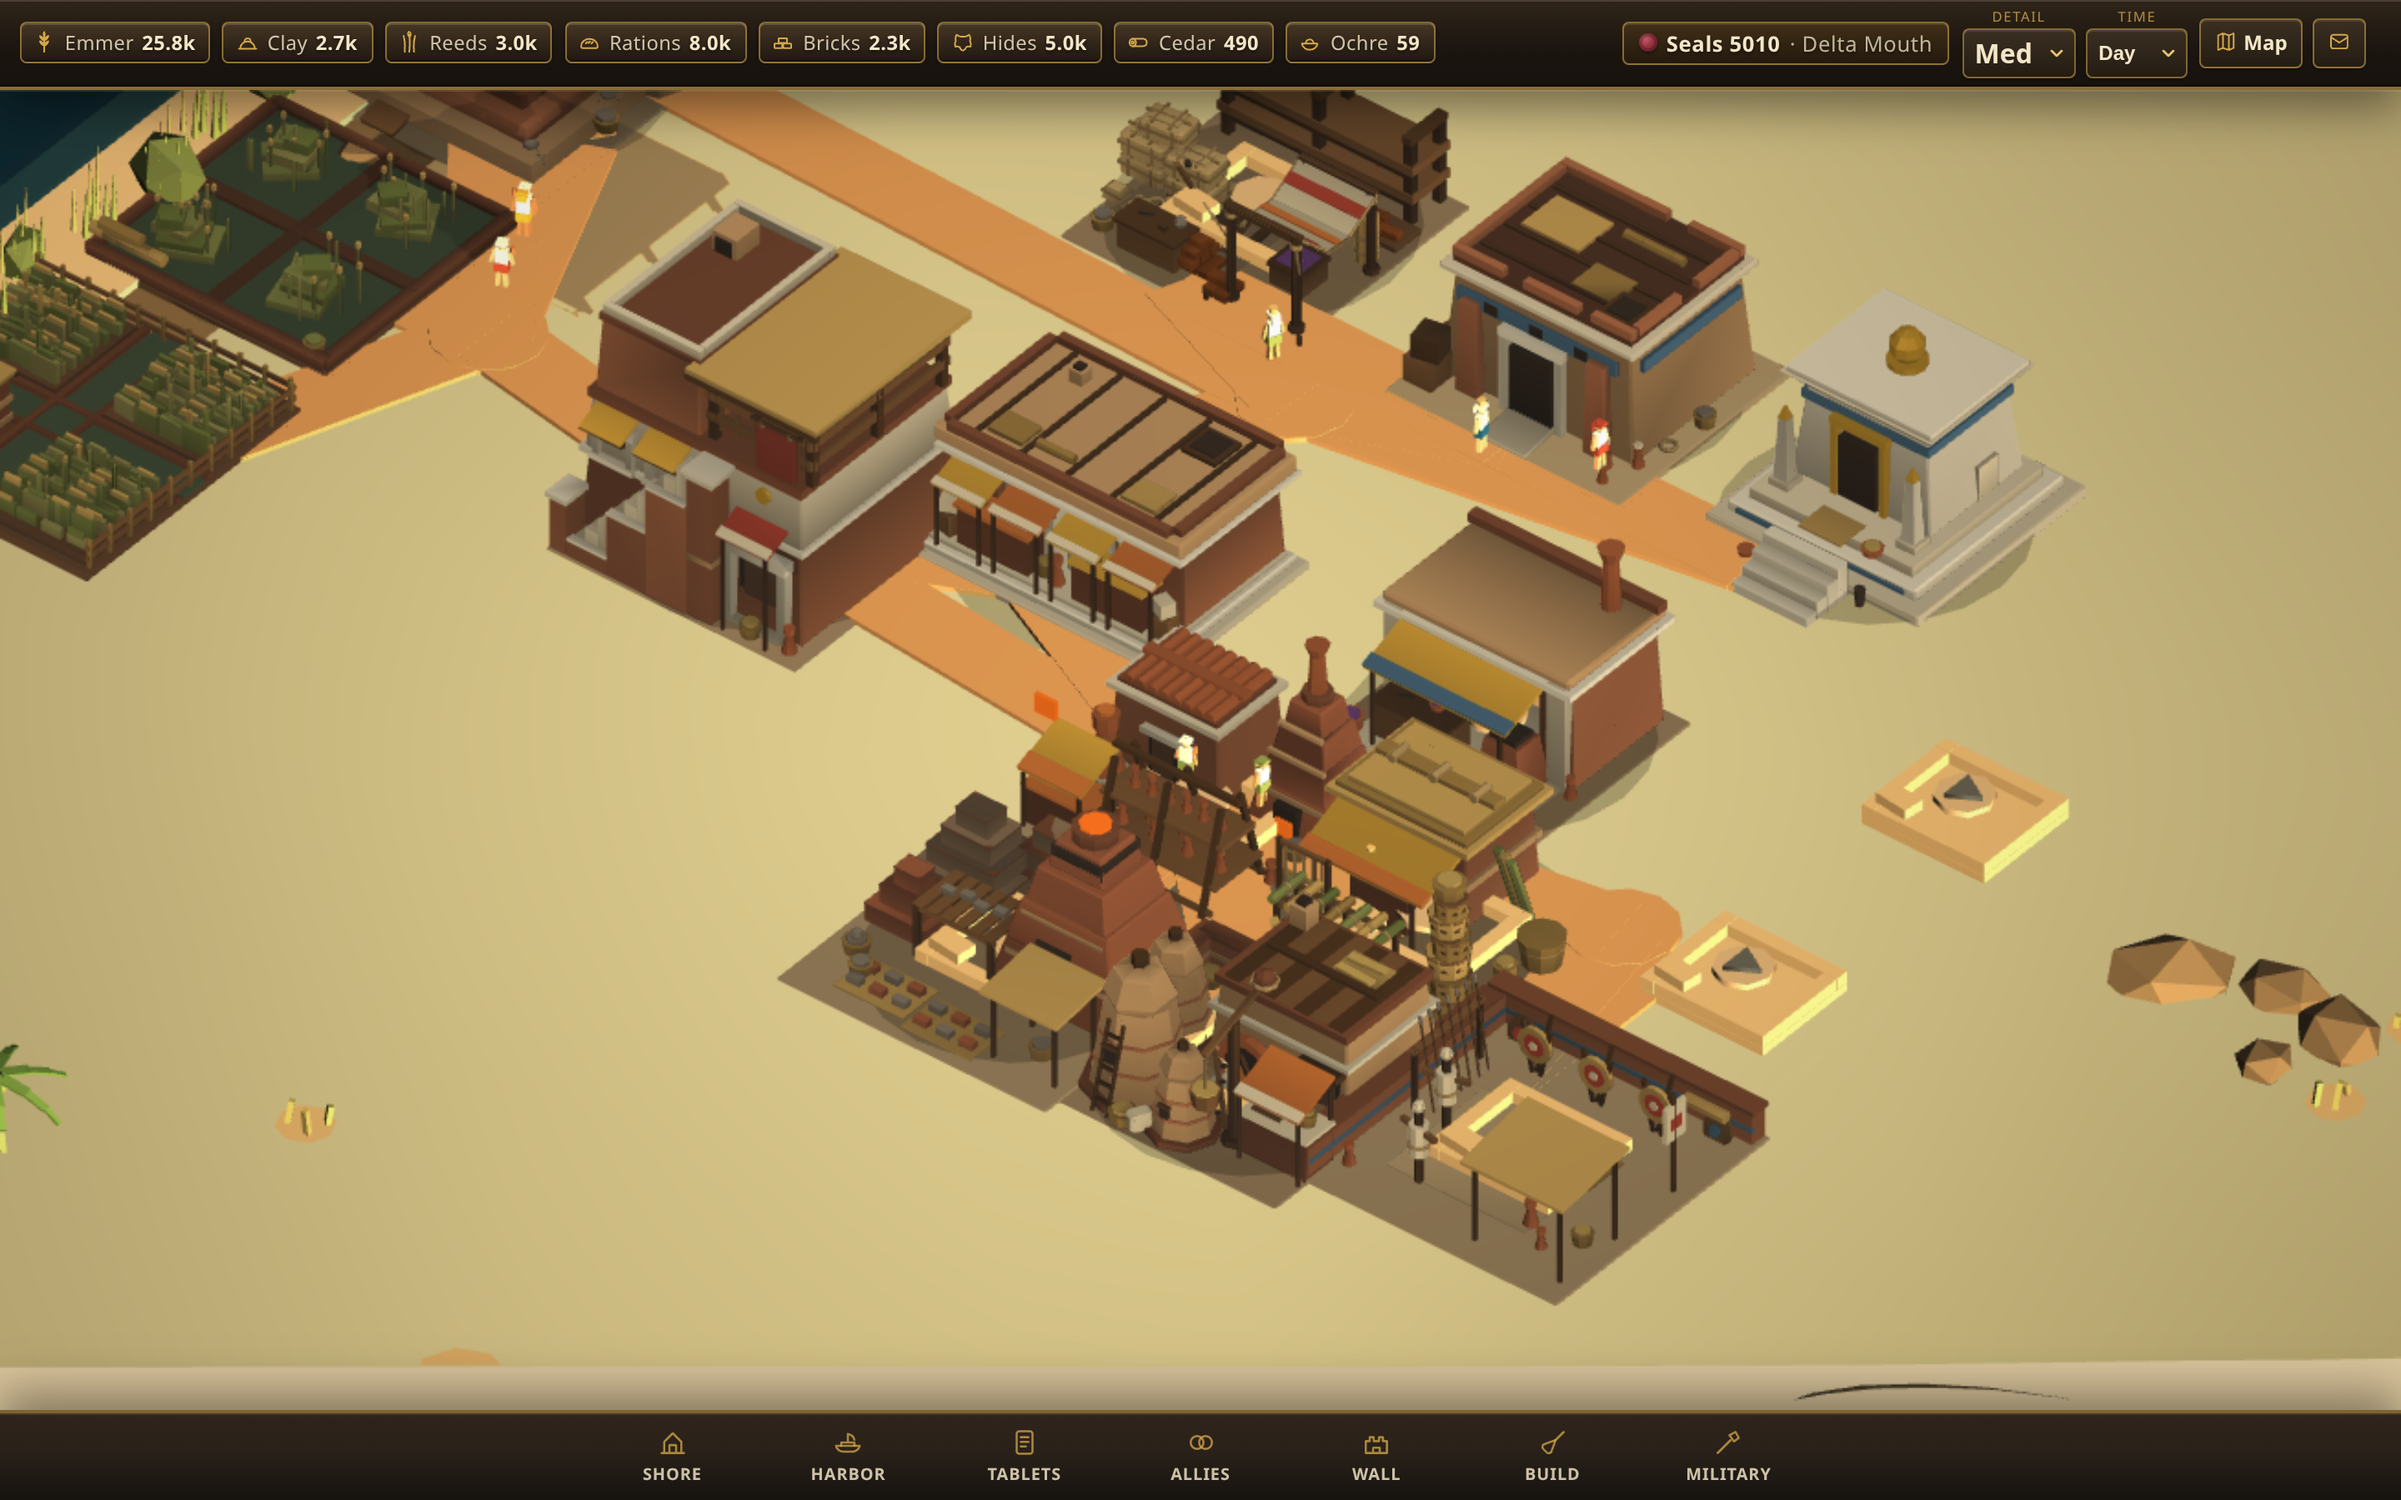
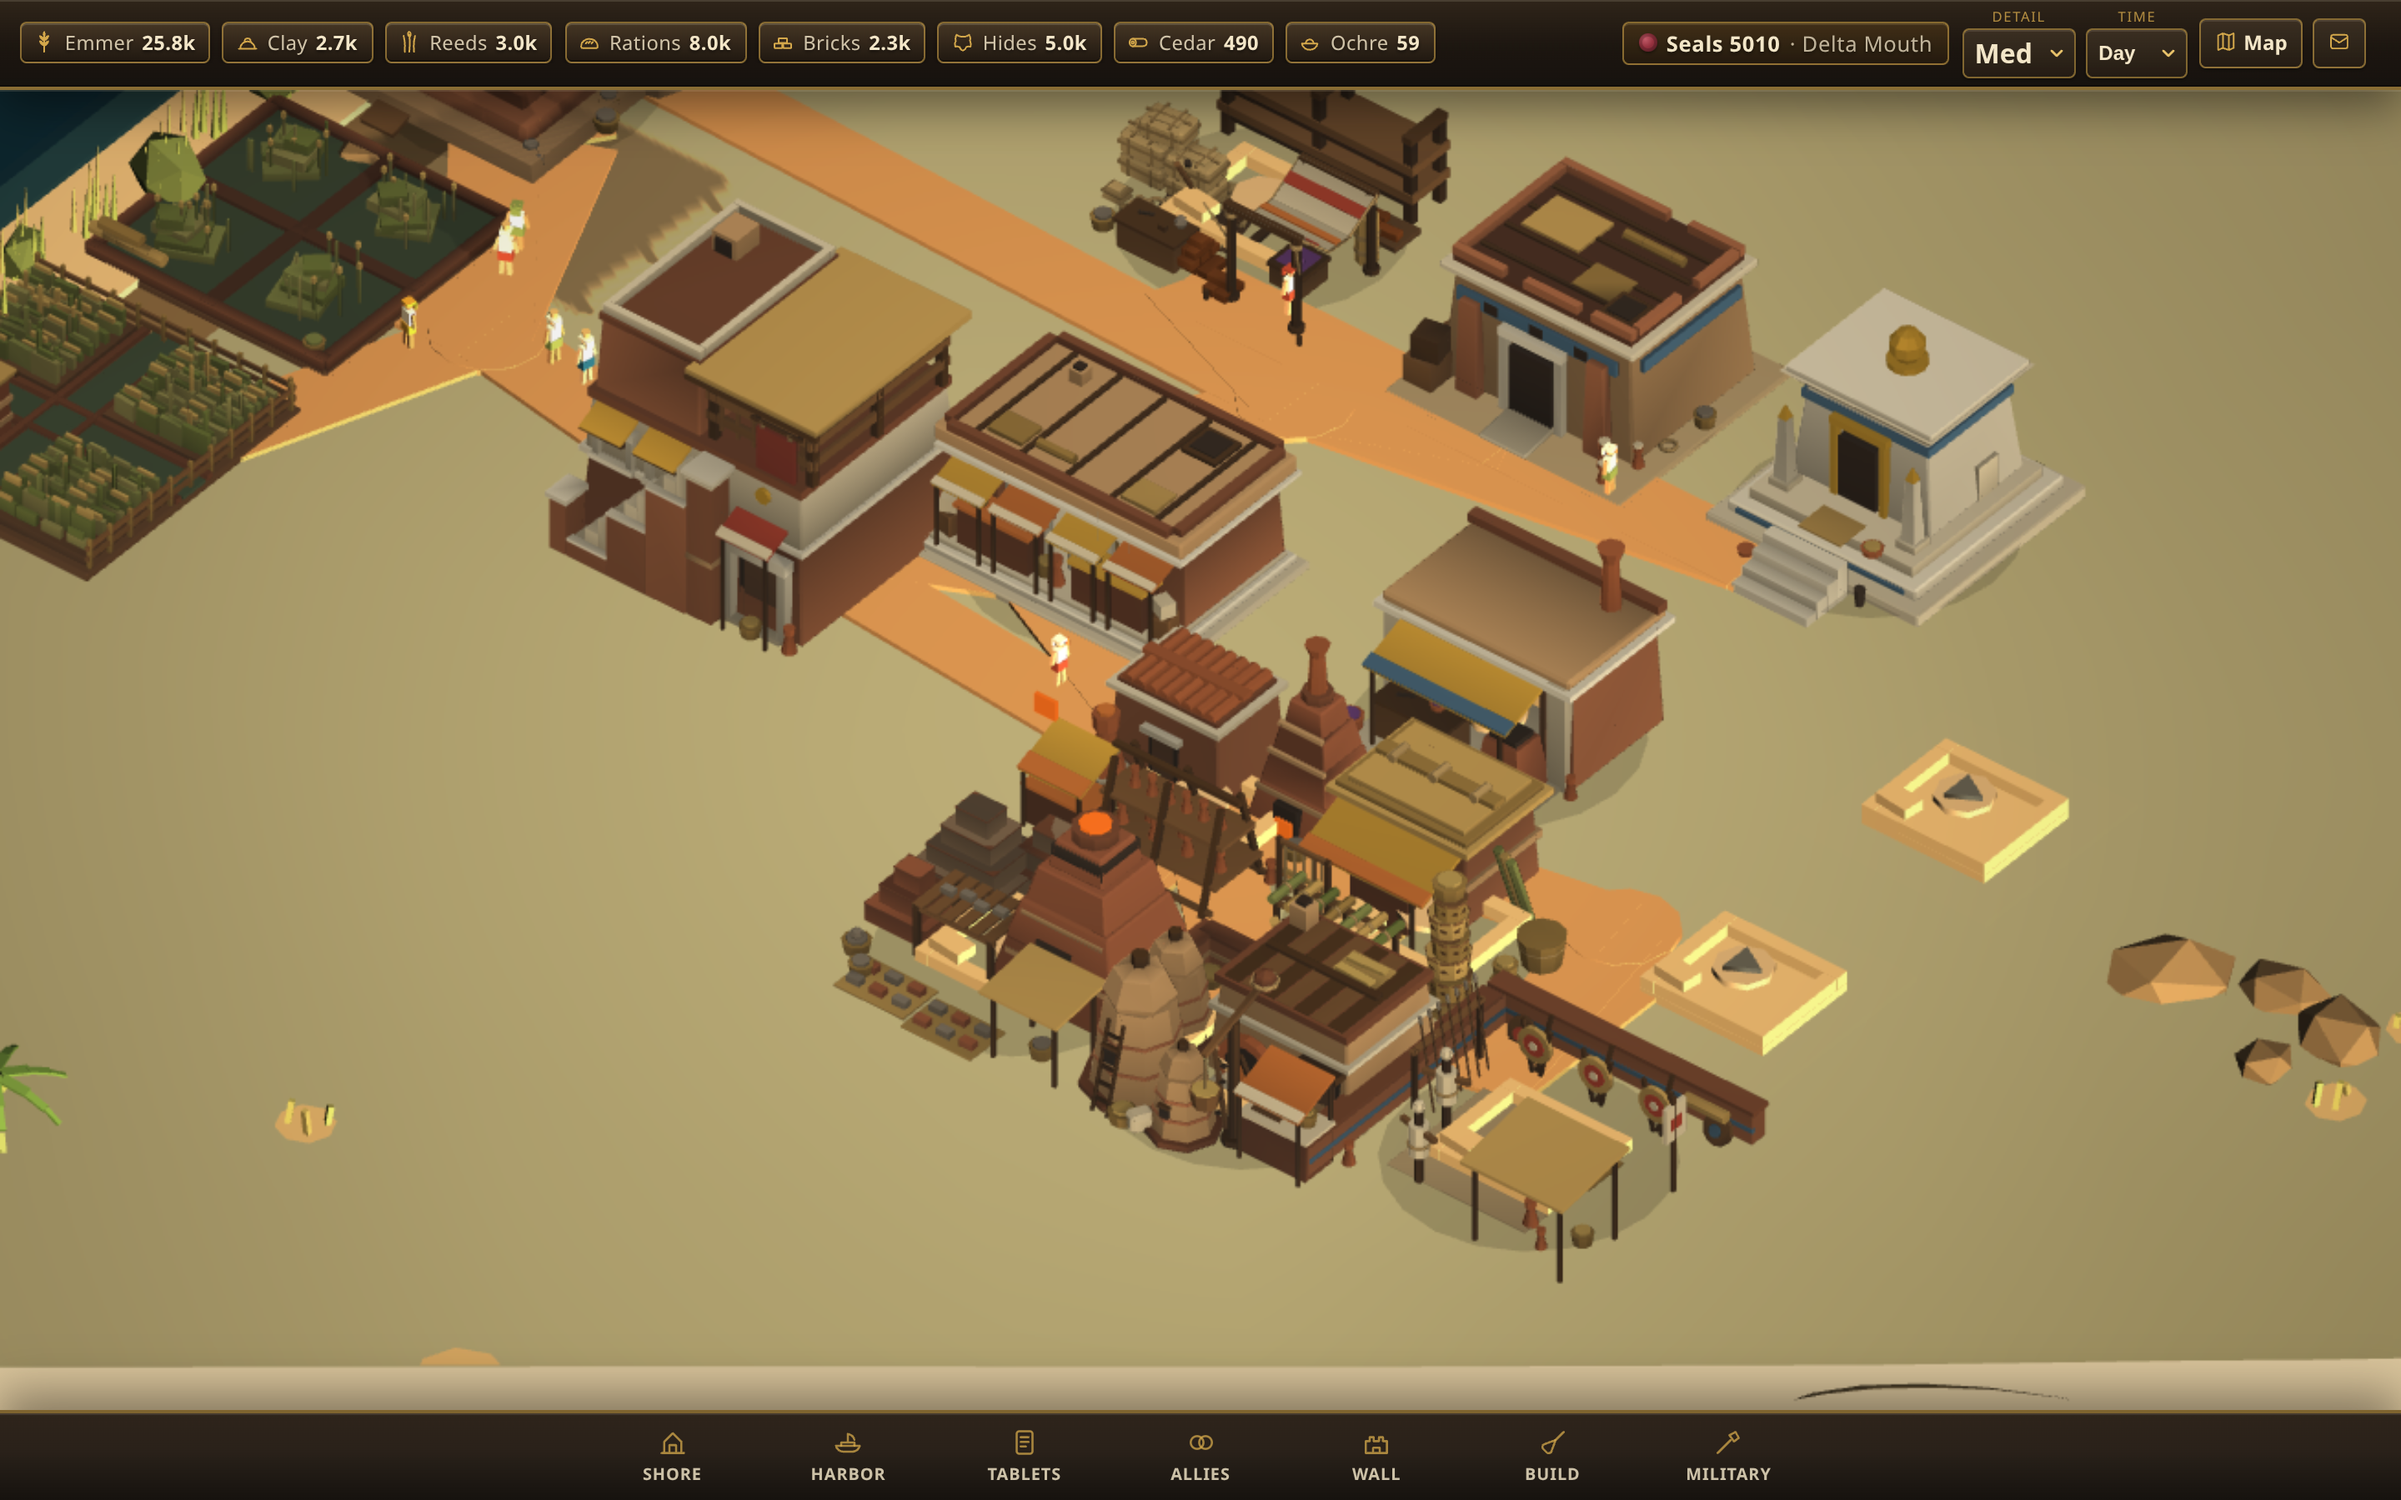
fix(overhaul-r16): per-kind roof accents, aprons dropped, aerial haze tuned
Judge R16: five workshop kinds 'collapse into one indistinguishable brown
mass' and 'overlapping per-building ground pads produce hard-edged
mismatched-darkness rectangles'.

- kit aprons are now hidden entirely: neighbouring plots overlap so their
  trays stacked into mismatched rectangles. Grounding comes from the
  per-building contact discs alone.
- each workshop kind gets a distinguishing roof accent (vessel_shop cool
  blue-grey, reed_basket_shop straw, mudbrick_yard raw brick, luxury_workshop
  violet-grey, training_grounds olive, ration_house tan) so the southern
  cluster separates into buildings at board zoom.
- linear aerial haze tuned to the tightened frame (32→88) — an earlier 18
  start washed out the harbor.
- contact discs softened now that the aprons no longer sit under them.

Scorecard updated: cohesion has reached 8.0 and structures 7.4; atmosphere
(4.6) is the remaining floor and is gated on the blocked particle pipeline.

diff --git a/apps/client/src/render/kitLoader.ts b/apps/client/src/render/kitLoader.ts
@@ -44,7 +44,7 @@ export async function preloadBuildingKits(scene: Scene): Promise<KitCache> {
     kinds.map(async (file) => {
       try {
         // Bump when Blender re-exports solid kits (dev/prod cache bust)
-        const KIT_VER = "overhaul-r15";
+        const KIT_VER = "overhaul-r16";
         const result = await SceneLoader.ImportMeshAsync(
           null,
           "/models/buildings/",
@@ -171,6 +171,31 @@ export function instantiateBuildingFromKit(
         if ("wireframe" in anyMat) anyMat.wireframe = false;
       }
       const name = c.name.toLowerCase();
+      // Per-kind roof/canopy accent: five workshop kinds were reading as one
+      // brown mass at board zoom. Each gets a distinguishing top colour.
+      const KIND_ACCENT: Record<string, [number, number, number]> = {
+        vessel_shop: [0.42, 0.47, 0.52],
+        reed_basket_shop: [0.78, 0.7, 0.45],
+        mudbrick_yard: [0.66, 0.42, 0.28],
+        luxury_workshop: [0.5, 0.4, 0.5],
+        training_grounds: [0.44, 0.4, 0.3],
+        ration_house: [0.56, 0.46, 0.3],
+      };
+      const accent = KIND_ACCENT[b.kind];
+      if (
+        accent &&
+        (name.includes("roof") || name.includes("thatch") ||
+          name.includes("plank") || name.includes("tile"))
+      ) {
+        const rm = c.material as StandardMaterial | null;
+        if (rm?.diffuseColor) {
+          rm.diffuseColor = Color3.Lerp(
+            rm.diffuseColor,
+            new Color3(accent[0], accent[1], accent[2]),
+            0.55
+          );
+        }
+      }
       // Plot trays: force ONE shared ground tone + flatten, so kits stop
       // reading as differently-beige tiles pasted onto the sand (cohesion).
       if (
@@ -178,14 +203,11 @@ export function instantiateBuildingFromKit(
         name.includes("earth_pack") ||
         name.includes("dirt_")
       ) {
-        const am = c.material as StandardMaterial | null;
-        if (am && am.diffuseColor) {
-          // Match the desert almost exactly — a tray that reads as its own
-          // rectangle is a "sticker" deduction every round.
-          am.diffuseColor = new Color3(0.79, 0.71, 0.55);
-          am.specularColor = Color3.Black();
-        }
-        c.scaling.y = 0.22;
+        // Hidden outright: neighbouring kits overlap, so their trays stacked
+        // into mismatched dark rectangles ("unfinished decal blending").
+        // Grounding comes from the per-building contact discs instead.
+        c.setEnabled(false);
+        continue;
       }
       // Night craft = windows/hearth/glow only — never flat roof planes
       if (

diff --git a/apps/client/src/render/scene.ts b/apps/client/src/render/scene.ts
@@ -570,7 +570,7 @@ export class SettlementView {
       this.contactMat.diffuseColor = hexToColor3("#4A3520");
       this.contactMat.specularColor = Color3.Black();
       this.contactMat.emissiveColor = Color3.Black();
-      this.contactMat.alpha = 0.22;
+      this.contactMat.alpha = 0.15;
       this.contactMat.disableLighting = true;
       this.contactMat.zOffset = -2;
     }
@@ -584,7 +584,7 @@ export class SettlementView {
       const w = this.plotWorldArch(b.plotId);
       const disc = MeshBuilder.CreateDisc(
         `contact-${b.id}`,
-        { radius: 1.55, tessellation: 20 },
+        { radius: 1.45, tessellation: 20 },
         this.scene
       );
       disc.rotation.x = Math.PI / 2;

diff --git a/apps/client/src/render/atmosphere.ts b/apps/client/src/render/atmosphere.ts
@@ -143,8 +143,8 @@ export class Atmosphere {
     // real near/far value falloff (EXP2 at ortho distance was either invisible
     // or a flat wash). Judges flagged the absence every round.
     this.scene.fogMode = Scene.FOGMODE_LINEAR;
-    this.scene.fogStart = 46;
-    this.scene.fogEnd = this.boardApprovalFog ? 96 : 120;
+    this.scene.fogStart = 32;
+    this.scene.fogEnd = this.boardApprovalFog ? 88 : 110;
     if (n < 0.35) {
       this.scene.fogColor = hexToColor3("#E4D4AE");
     } else if (n < 0.7) {

diff --git a/GOAL-FULL-VISUAL-OVERHAUL-STATUS.md b/GOAL-FULL-VISUAL-OVERHAUL-STATUS.md
@@ -1,4 +1,4 @@
-# GOAL — FULL VISUAL OVERHAUL · Status after 10 judged rounds
+# GOAL — FULL VISUAL OVERHAUL · Status after 16 judged rounds
 
 **Date:** 2026-08-03 · **Branch:** main · **Evidence:** `tools/judge/evidence/full-overhaul/` (31 shots, regenerated every round)
 **Method:** build round → regenerate the whole 31-shot gallery from the live game → 4 independent art-director judges (structures/cohesion, environment, UI, product) score the *whole* gallery → fix their exact findings → repeat.
@@ -20,25 +20,33 @@
 | R9 | 5.8 | 4.2 | *harsher panel (3× zoom)*; kit transparency root cause found |
 | R10 | 6.0 | 4.8 | contact discs, palm rebuild, shop-tier identity, greybox purge |
 | R11 | 6.4 | 5.2 | horizon band, unified plot trays (structures 7.2, cohesion 6.8, map 7.4) |
-| **R12** | **5.8** | **4.3** | **owner directive: board framing cut ~45% dead desert** |
+| R12 | 5.8 | 4.3 | **owner directive: board framing cut the dead desert** |
+| R14 | 6.5 | 5.4 | framing pays off: depth 4.8→6.0, ground 4.6→6.2, **UI 8.1** |
+| **R16** | **6.3** | **4.6** | geometry repair: **cohesion 8.0**, **structures 7.4** |
 
 R9/R10 panels zoomed to 3× and found defects earlier rounds never saw, so the
 numbers dip while the product improves — compare `board-day.png` across rounds
 in git history rather than trusting the scalar.
 
-### Current per-category (R10, min across 4 judges)
+### Current per-category (R16, min across 4 judges)
 
-| Category | Score | Category | Score |
-|---|---:|---|---:|
-| **UI / HUD** | **7.9** | Materials | 6.0 |
-| **Mobile** | **7.4** | Life & motion | 5.9 |
-| **World map** | **7.2** | Cohesion | 5.6 |
-| Structures | 6.4 | Ground & river | 5.2 |
-| Lighting | 6.3 | Depth / staging | 5.0 |
-| First impression | 6.2 | Atmosphere | 4.8 |
+| Category | Score | | Category | Score |
+|---|---:|---|---|---:|
+| **Cohesion** | **8.0** | | Materials | 6.0 |
+| **UI / HUD** | **7.8** | | Lighting | 5.9 |
+| **Structures** | **7.4** | | Depth / staging | 5.8 |
+| World map | 6.8 | | First impression | 5.8 |
+| Mobile | 6.5 | | Ground & river | 5.6 |
+| | | | Life & motion | 5.3 |
+| | | | **Atmosphere** | **4.6** |
 
-**Gate (mean ≥ 8.0 / min ≥ 6) is NOT met.** UI, mobile and the world map are at
-or near the bar. The 3D environment is the whole remaining gap.
+**Gate (mean ≥ 8.0 / min ≥ 6) is NOT met**, but cohesion has reached the bar and
+structures/UI are within half a point. The floor is **atmosphere (4.6)** and
+**life & motion (5.3)** — both dominated by the single blocked item below
+(no smoke, dust, haze or water motion anywhere), plus ground & river.
+
+Trajectory over the 16 rounds: cohesion 5.6 → **8.0**, structures 6.4 → **7.4**,
+depth 5.0 → 5.8, ground 5.2 → 5.6, UI 7.9 → 7.8–8.1.
 
 ---
 
